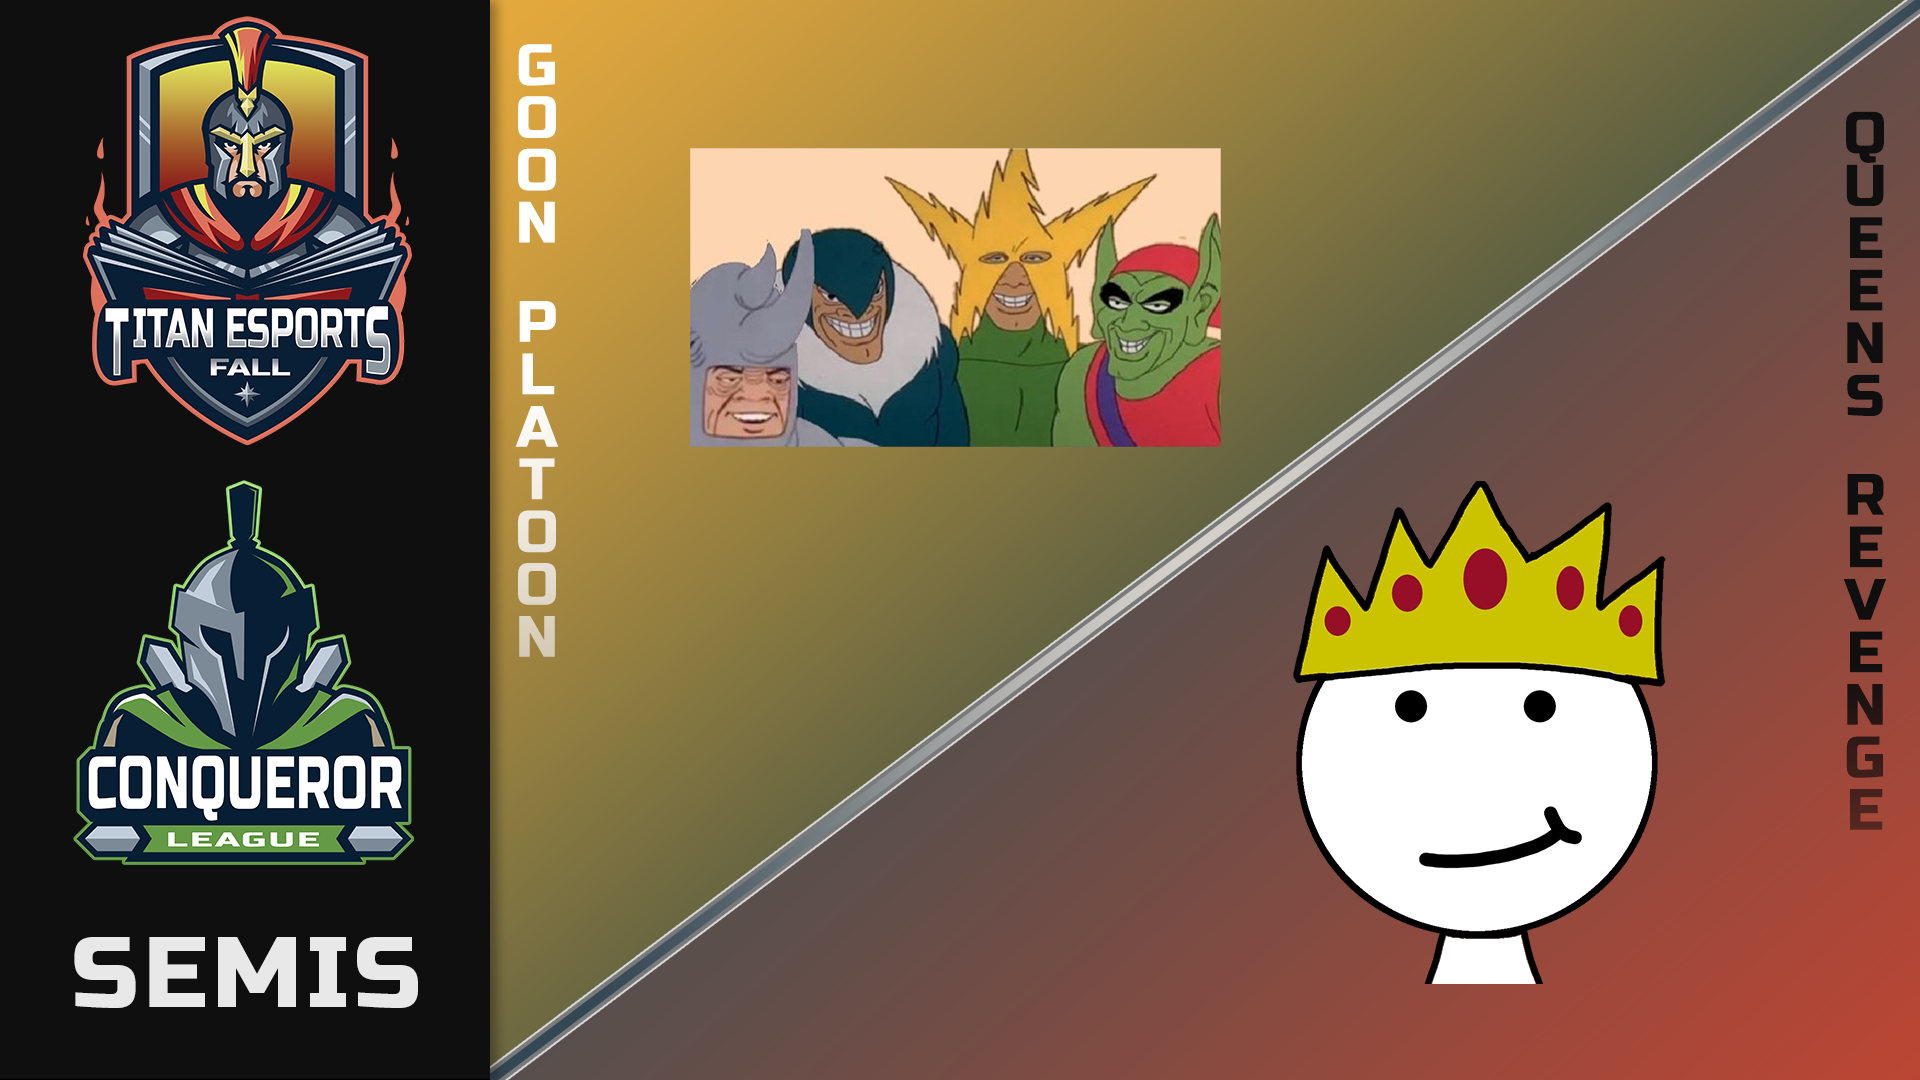
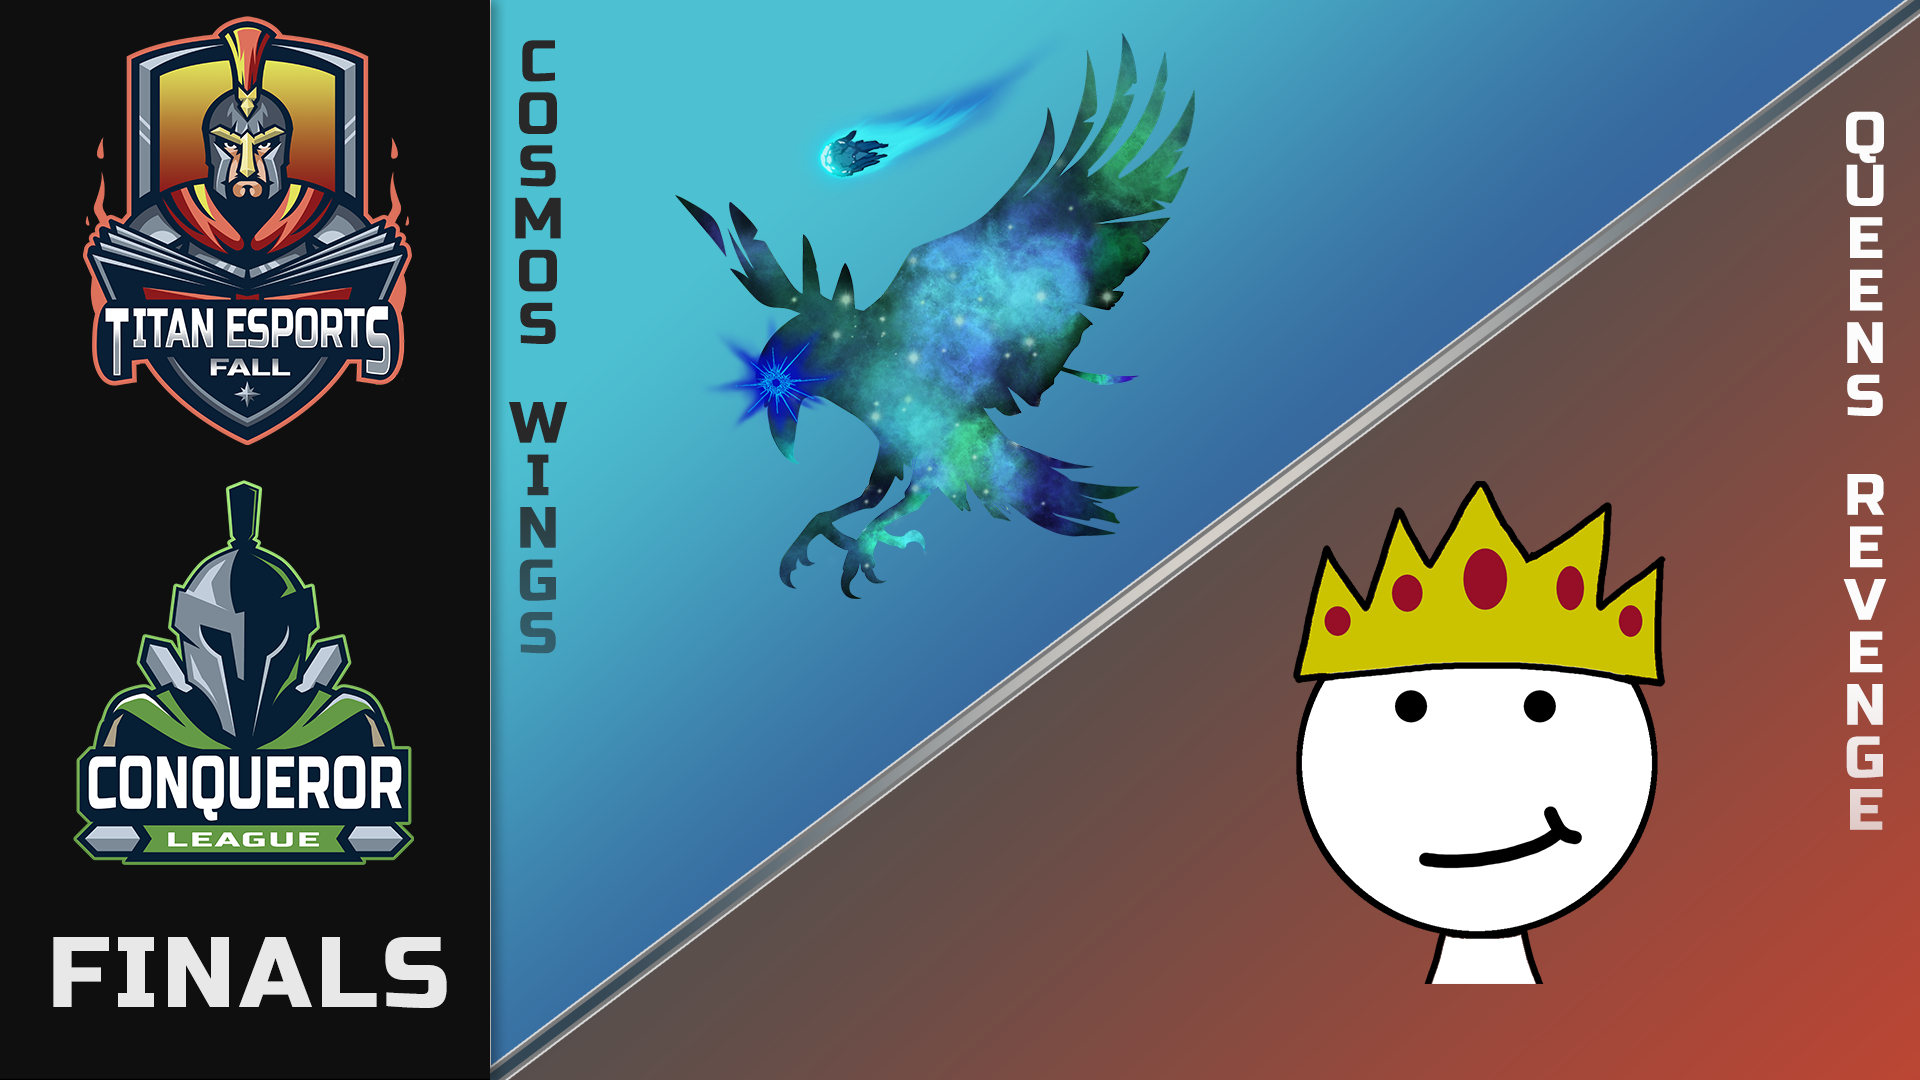
conq update

diff --git a/widgets/carousel/carousel.html b/widgets/carousel/carousel.html
@@ -41,7 +41,7 @@
       </div>
       <div class="slide">
         <div id="slide-2">
-          <img src="img/gladiator_matchup.png" width="1400px" height="800px" />
+          <img src="img/conqueror_matchup.png" width="1400px" height="800px" />
         </div>
       </div>
     </div>
